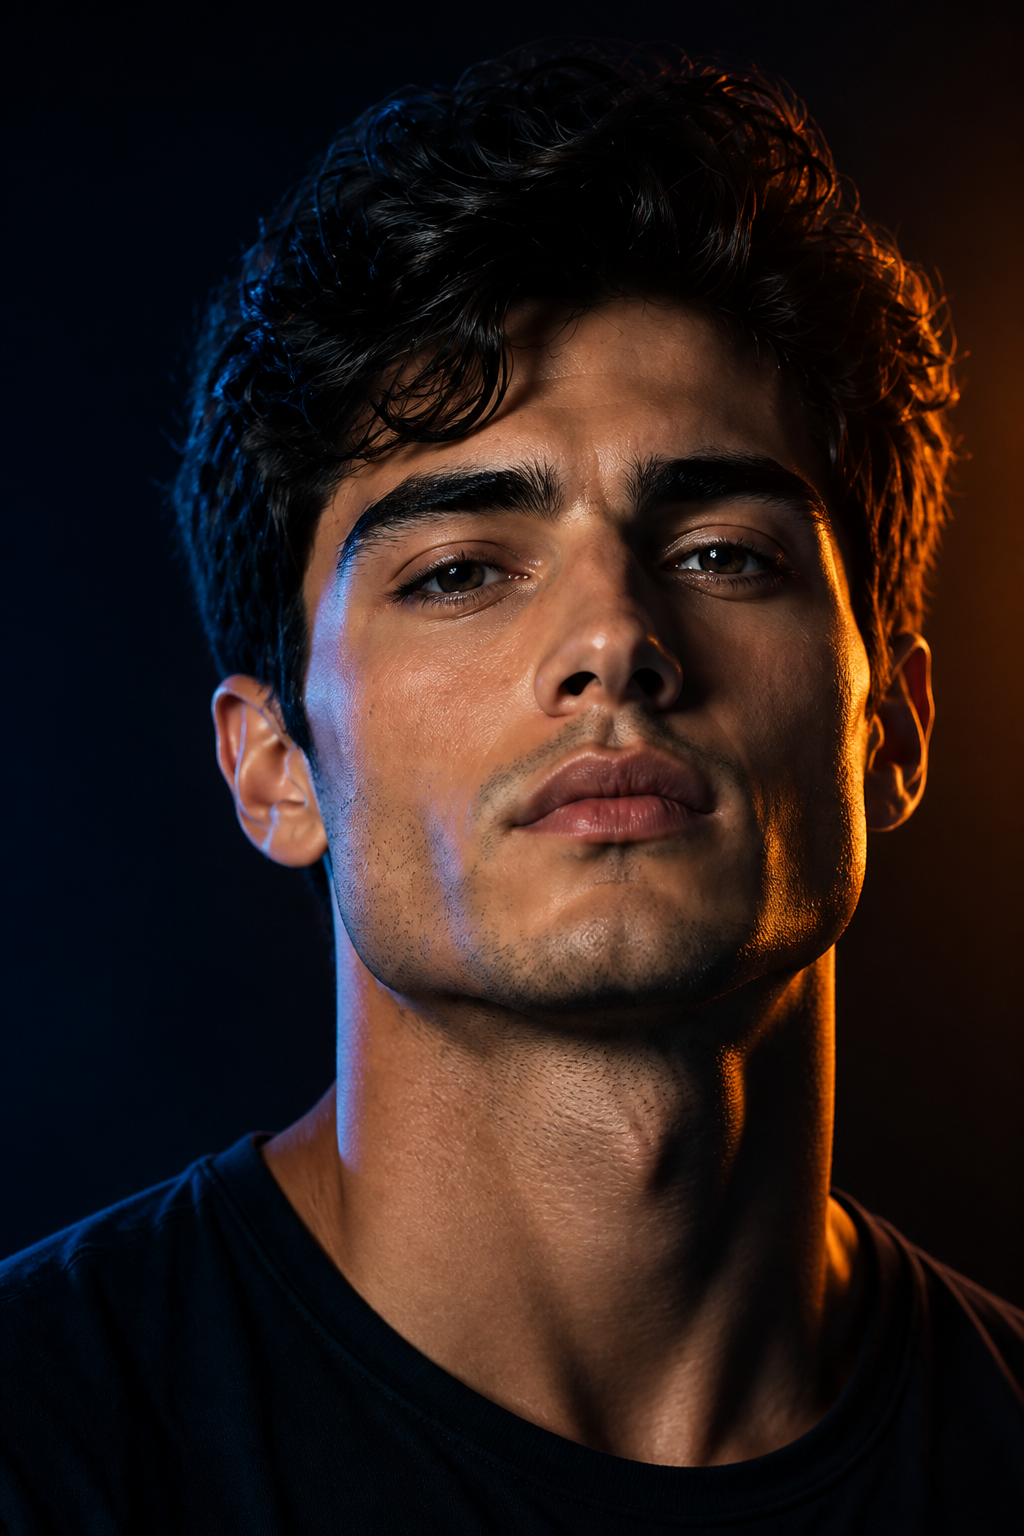
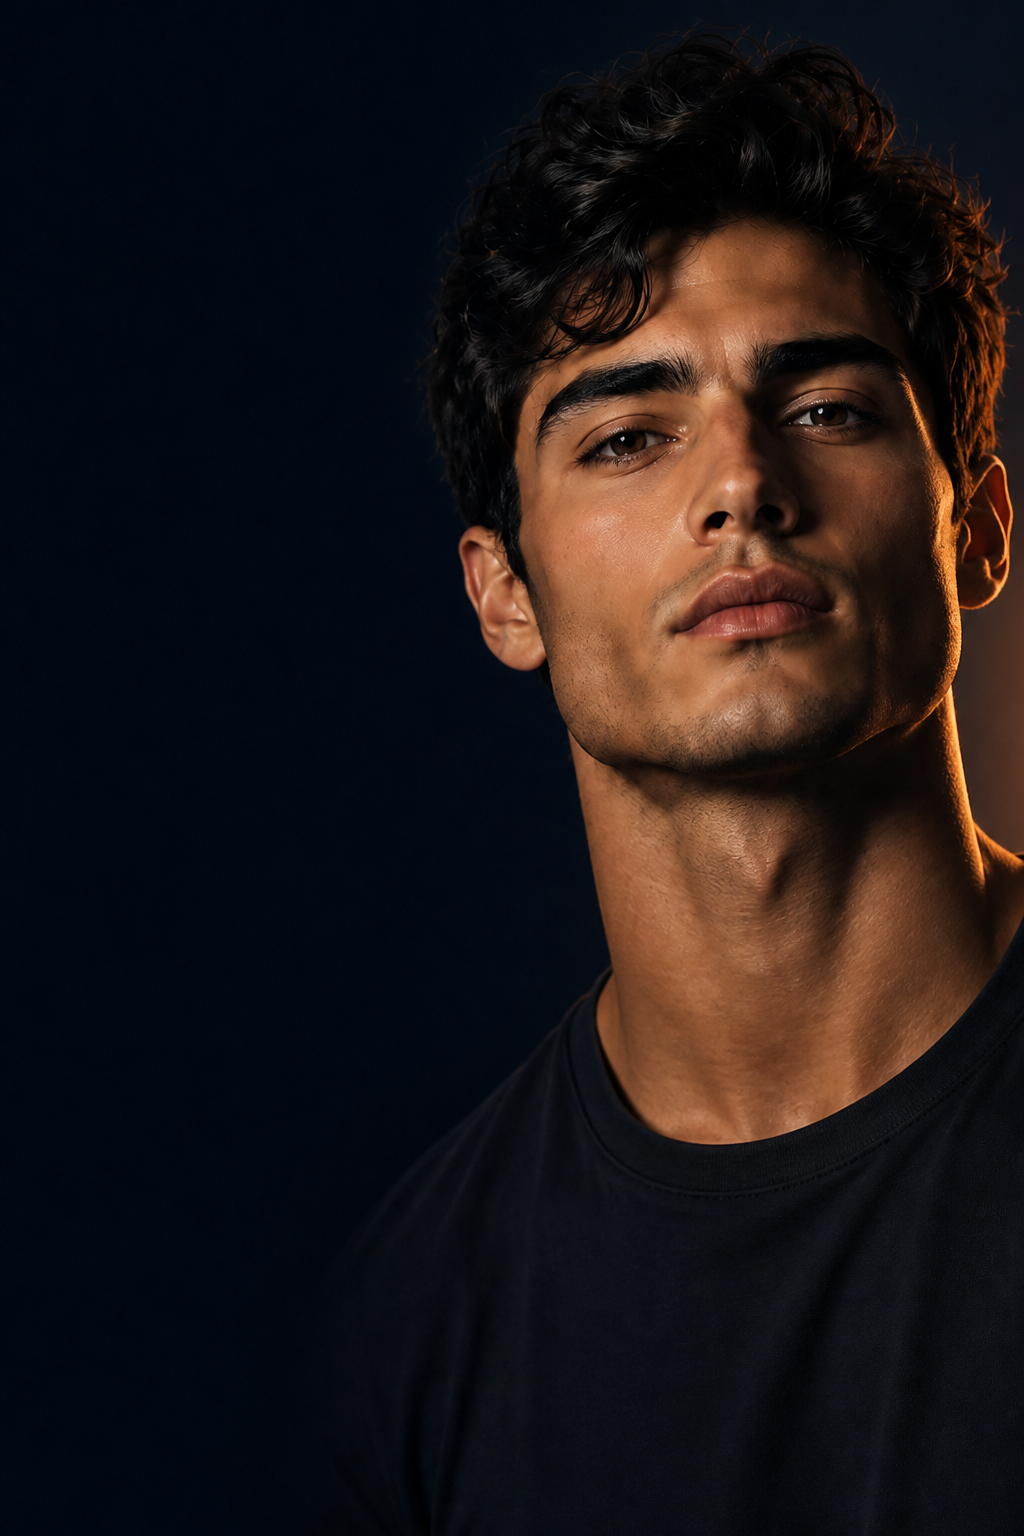
yee changes

diff --git a/styles.css b/styles.css
@@ -59,13 +59,22 @@ button {
 
 /* ========== LANDING ========== */
 .landing {
+  --landing-ink: #05070a;
+  --landing-ink-2: #0a0f1d;
+  --landing-muted: #a0a4b0;
+  --landing-soft: #c6cad3;
+  --landing-amber: #e08e6d;
+  --landing-amber-hot: #f0a07a;
+  --landing-glass: rgba(22, 26, 36, 0.42);
+  --landing-glass-border: rgba(255, 255, 255, 0.16);
   position: relative;
-  background: #05070d;
-  color: var(--white);
+  background: var(--landing-ink);
+  color: #ffffff;
   min-height: 100%;
   display: flex;
   flex-direction: column;
   overflow: hidden;
+  font-family: "Montserrat", "Outfit", system-ui, sans-serif;
 }
 
 .landing-bg {
@@ -73,17 +82,17 @@ button {
   inset: 0;
   background:
     url("assets/landing-portrait.png")
-      68% 12% / cover no-repeat;
-  transform: scale(1.03);
-  animation: landingKen 20s ease-in-out infinite alternate;
+      72% 8% / cover no-repeat;
+  transform: scale(1.02);
+  animation: landingKen 22s ease-in-out infinite alternate;
 }
 
 @keyframes landingKen {
   from {
-    transform: scale(1.03) translate3d(0, 0, 0);
+    transform: scale(1.02) translate3d(0, 0, 0);
   }
   to {
-    transform: scale(1.08) translate3d(-1.5%, -1.5%, 0);
+    transform: scale(1.06) translate3d(-1%, -1%, 0);
   }
 }
 
@@ -92,16 +101,16 @@ button {
   inset: 0;
   background:
     linear-gradient(
-      105deg,
-      #05070df2 0%,
-      #05070de6 28%,
-      #05070c88 48%,
-      #05070c22 62%,
-      transparent 78%
+      100deg,
+      #05070af5 0%,
+      #05070aee 24%,
+      #05070ab8 42%,
+      #05070a55 58%,
+      transparent 76%
     ),
-    linear-gradient(180deg, #05070c66 0%, transparent 22%, transparent 48%, #05070ccc 72%, #05070c 100%),
-    radial-gradient(ellipse 55% 45% at 88% 42%, #ff7a2e55, transparent 70%),
-    radial-gradient(ellipse 50% 40% at 12% 30%, #1b2a55aa, transparent 65%);
+    linear-gradient(180deg, #05070a55 0%, transparent 18%, transparent 52%, #05070ad0 78%, #05070a 100%),
+    radial-gradient(ellipse 48% 42% at 92% 38%, rgba(224, 142, 109, 0.38), transparent 68%),
+    radial-gradient(ellipse 42% 36% at 8% 28%, rgba(20, 32, 68, 0.55), transparent 70%);
   pointer-events: none;
 }
 
@@ -111,66 +120,67 @@ button {
   flex: 1;
   display: flex;
   flex-direction: column;
-  padding: calc(34px + var(--safe-t)) 22px calc(26px + var(--safe-b));
+  padding: calc(36px + var(--safe-t)) 22px calc(24px + var(--safe-b));
   min-height: 100%;
 }
 
 .landing-head {
-  max-width: 78%;
+  max-width: 82%;
 }
 
 .landing-kicker {
   font-size: 11px;
-  font-weight: 600;
-  letter-spacing: 0.24em;
+  font-weight: 500;
+  letter-spacing: 0.28em;
   text-transform: uppercase;
-  color: #ffffff9e;
-  margin-bottom: 14px;
+  color: var(--landing-muted);
+  margin-bottom: 16px;
 }
 
 .landing-brand {
-  font-family: "Syne", "Outfit", sans-serif;
-  font-size: clamp(52px, 14vw, 64px);
+  font-family: "Montserrat", sans-serif;
+  font-size: clamp(54px, 15vw, 68px);
   font-weight: 800;
-  letter-spacing: 0.04em;
-  line-height: 0.92;
-  margin-bottom: 16px;
-  text-shadow: 0 8px 30px #00000066;
+  letter-spacing: 0.08em;
+  line-height: 0.9;
+  margin-bottom: 18px;
+  color: #ffffff;
+  text-shadow: 0 10px 36px rgba(0, 0, 0, 0.45);
 }
 
 .landing-tag {
-  font-size: 16px;
+  font-size: 15px;
   font-weight: 500;
-  line-height: 1.45;
-  color: #fffffff0;
+  line-height: 1.5;
+  color: #f2f3f6;
   margin: 0;
-  max-width: 240px;
-  text-shadow: 0 4px 18px #00000088;
+  max-width: 250px;
+  text-shadow: 0 6px 20px rgba(0, 0, 0, 0.55);
 }
 
 .track-choices {
   display: flex;
   flex-direction: column;
-  gap: 12px;
+  gap: 11px;
   margin-top: auto;
-  margin-bottom: 22px;
-  padding-top: 36px;
+  margin-bottom: 20px;
+  padding-top: 40px;
 }
 
 .track-card {
   display: flex;
   align-items: center;
-  gap: 14px;
+  gap: 13px;
   width: 100%;
   text-align: left;
-  padding: 15px 14px;
-  border-radius: 18px;
-  background: rgba(18, 20, 28, 0.48);
-  border: 1px solid rgba(255, 255, 255, 0.14);
-  backdrop-filter: blur(18px) saturate(1.15);
-  -webkit-backdrop-filter: blur(18px) saturate(1.15);
-  box-shadow: 0 10px 28px #00000033;
-  color: var(--white);
+  padding: 14px 14px 14px 13px;
+  border-radius: 22px;
+  background: var(--landing-glass);
+  border: 1px solid var(--landing-glass-border);
+  backdrop-filter: blur(22px) saturate(1.2);
+  -webkit-backdrop-filter: blur(22px) saturate(1.2);
+  box-shadow: 0 12px 30px rgba(0, 0, 0, 0.28);
+  color: #ffffff;
   transition:
     transform 0.15s ease,
     background 0.2s ease,
@@ -180,7 +190,7 @@ button {
 
 .track-card:hover,
 .track-card:focus-visible {
-  background: rgba(24, 26, 36, 0.58);
+  background: rgba(28, 32, 44, 0.55);
   border-color: rgba(255, 255, 255, 0.28);
   outline: none;
 }
@@ -190,23 +200,24 @@ button {
 }
 
 .track-card-face {
-  border-color: rgba(255, 140, 66, 0.72);
+  border-color: rgba(224, 142, 109, 0.85);
   box-shadow:
-    0 0 0 1px rgba(255, 122, 46, 0.18),
-    0 0 22px rgba(255, 122, 46, 0.28),
-    0 10px 28px #00000040;
+    0 0 0 1px rgba(240, 160, 122, 0.22),
+    0 0 26px rgba(224, 142, 109, 0.34),
+    inset 0 0 18px rgba(224, 142, 109, 0.06),
+    0 12px 30px rgba(0, 0, 0, 0.32);
 }
 
 .track-icon {
-  width: 44px;
-  height: 44px;
+  width: 42px;
+  height: 42px;
   border-radius: 12px;
-  background: rgba(255, 255, 255, 0.06);
+  background: rgba(255, 255, 255, 0.07);
   border: 1px solid rgba(255, 255, 255, 0.14);
   display: grid;
   place-items: center;
   flex-shrink: 0;
-  color: #ffffffd9;
+  color: #e8ebf0;
   box-shadow: none;
 }
 
@@ -219,20 +230,21 @@ button {
 }
 
 .track-name {
-  font-size: 17px;
+  font-size: 16px;
   font-weight: 700;
   letter-spacing: 0.01em;
+  color: #ffffff;
 }
 
 .track-desc {
-  font-size: 12px;
+  font-size: 11.5px;
   font-weight: 500;
   line-height: 1.35;
-  color: #ffffffa3;
+  color: var(--landing-muted);
 }
 
 .track-arrow {
-  color: #ffffffcc;
+  color: rgba(255, 255, 255, 0.82);
   display: grid;
   place-items: center;
   flex-shrink: 0;
@@ -256,20 +268,21 @@ button {
   align-items: center;
   gap: 12px;
   margin-top: 2px;
-  padding-top: 18px;
+  padding-top: 16px;
   border-top: 1px solid rgba(255, 255, 255, 0.1);
 }
 
 .landing-mark {
-  width: 34px;
-  height: 34px;
+  width: 32px;
+  height: 32px;
   border-radius: 50%;
-  background:
-    radial-gradient(circle at 50% 50%, transparent 52%, rgba(255, 122, 46, 0.95) 53%, rgba(255, 122, 46, 0.95) 62%, transparent 63%),
-    rgba(255, 255, 255, 0.04);
-  border: 1px solid rgba(255, 255, 255, 0.12);
-  box-shadow: 0 0 14px rgba(255, 122, 46, 0.35);
+  background: transparent;
+  border: 2px solid rgba(255, 255, 255, 0.12);
+  border-top-color: var(--landing-amber);
+  border-right-color: var(--landing-amber-hot);
+  box-shadow: 0 0 16px rgba(224, 142, 109, 0.4);
   flex-shrink: 0;
+  transform: rotate(-25deg);
 }
 
 .landing-mark svg {
@@ -279,15 +292,15 @@ button {
 .landing-foot-title {
   font-size: 14px;
   font-weight: 700;
-  letter-spacing: 0.01em;
-  color: #fffffff2;
+  letter-spacing: 0.005em;
+  color: #ffffff;
 }
 
 .landing-foot-sub {
   font-size: 12px;
   font-weight: 500;
   letter-spacing: 0.01em;
-  color: #ffffff8f;
+  color: var(--landing-muted);
   margin-top: 2px;
 }
 

diff --git a/index.html b/index.html
@@ -2,13 +2,13 @@
 <html lang="en">
 <head>
   <meta charset="UTF-8" />
-  <meta name="viewport" content="width=device-width, initial-scale=1, viewport-fit=cover" />
-  <meta name="theme-color" content="#1E3FE0" />
+  <meta name="viewport" content="width=device-width, initial-scale=1, viewport-fit=cover, maximum-scale=1" />
+  <meta name="theme-color" content="#05070A" />
   <meta name="description" content="CARVE — face & voice training. Tone muscles, posture, and vocal habits — never bone structure." />
   <title>CARVE APP</title>
   <link rel="preconnect" href="https://fonts.googleapis.com" />
   <link rel="preconnect" href="https://fonts.gstatic.com" crossorigin />
-  <link href="https://fonts.googleapis.com/css2?family=Outfit:wght@400;500;600;700;800;900&family=Syne:wght@600;700;800&display=swap" rel="stylesheet" />
+  <link href="https://fonts.googleapis.com/css2?family=Montserrat:wght@400;500;600;700;800&family=Outfit:wght@400;500;600;700;800;900&family=Syne:wght@600;700;800&display=swap" rel="stylesheet" />
   <link rel="stylesheet" href="styles.css?v=landing9" />
 </head>
 <body>
@@ -370,7 +370,7 @@
 
   <div class="toast" id="toast" role="status" aria-live="polite" hidden></div>
 
-  <script src="data.js?v=coach8"></script>
-  <script src="script.js?v=dayui8"></script>
+  <script src="data.js?v=landing9"></script>
+  <script src="script.js?v=landing9"></script>
 </body>
 </html>
